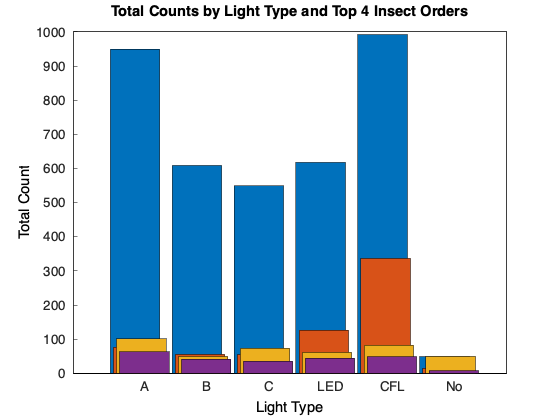
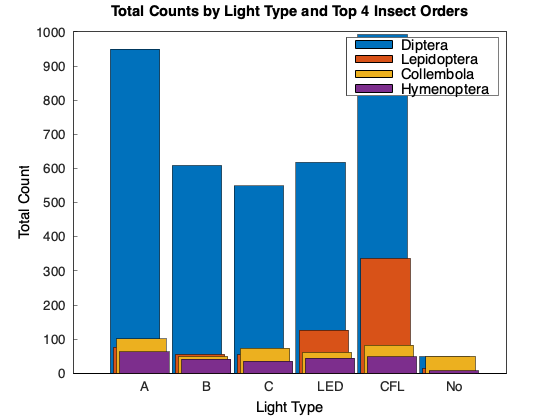
COMPLETE

Changed region(s): [[0.6071, 0.0619, 0.8804, 0.2476]]

diff --git a/exam/bugs-task2-fixed.cpp b/exam/bugs-task2-fixed.cpp
@@ -24,7 +24,7 @@ public:
 void parseCSV(const string& filePath, Site& URBAN, Site& RURAL) {
     ifstream file(filePath);
     if (!file.is_open()) {
-        cerr << "Error opening file!" << endl;
+        cout << "Error opening file!" << endl;
         return;
     }
 
@@ -112,8 +112,8 @@ int main() {
     parseCSV(filePath, urban, rural);
 
     // Calculate regression lines
-    std::pair<double, double> urbanRegression = calculateLinearRegression(urban.Standardized_Moon, urban.total);
-    std::pair<double, double> ruralRegression = calculateLinearRegression(rural.Standardized_Moon, rural.total);
+    pair<double, double> urbanRegression = calculateLinearRegression(urban.Standardized_Moon, urban.total);
+    pair<double, double> ruralRegression = calculateLinearRegression(rural.Standardized_Moon, rural.total);
 
     // Prep regression line values
     vector<double> urbanFit;
@@ -128,32 +128,36 @@ int main() {
 
 
     // plot BG
-
-    auto ax1 = fig->add_subplot(1, 3, 1);
+    auto fig1 = figure(true);
+    //auto ax1 = fig1->add_subplot(1, 3, 1);
     // scatter plot using red xs
-    matplot::plot(urban.Standardized_Moon, urban.total, "rx");
+    plot(urban.Standardized_Moon, urban.total, "rx");
     hold(on);
     // regression line
     //vector<double> trend_x = linspace(2.2, 4.0, 10);
     //vector<double> trend_y = transform(trend_x, [](auto x) {return 240.5*x + 1043;});
     plot(urban.Standardized_Moon, urbanFit, "r-");
+    //matplot::legend({"Data Points", "Regression Line"});
     // labels
     xlabel("Standardized Moon");
     ylabel("Total Bugs");
     title("Urban Site (BG)");
 
     show();
-    save("urban-BG.png");  
+    hold(on);
+    //save("urban-BG.png");  
 
 
     // plot LK and Stunt
 
     // scatter plot using blue xs
-    auto ax1 = fig->add_subplot(1, 3, 2);
-    matplot::plot(rural.Standardized_Moon, rural.total, "bx");
+    //auto fig2 = figure(true);
+    //auto ax2 = fig1->add_subplot(1, 3, 2);
+    plot(rural.Standardized_Moon, rural.total, "bx");
     hold(on);
     // regression line
     plot(rural.Standardized_Moon, ruralFit, "b-");  // Plot regression line
+    matplot::legend({"Data Points Urban", "Regression Line Urban", "Data Points Rural", "Regression Line Rural"});
     // labels
     xlabel("Standardized Moon");
     ylabel("Total Bugs");
@@ -166,5 +170,4 @@ int main() {
 
 // clang++ -Wall -std=c++11 bugs-task2-fixed.cpp -o task2 -g
 
-// clang++ -std=c++17 -I/opt/homebrew/include/ -L /opt/homebrew/lib -l matplot bugs-task2-fixed.cpp -o task2 -g
-
+// clang++ -g bugs-task2-fixed.cpp -o task2fixed -std=c++17 -I/opt/homebrew/include -ldlib -lmatplot -lblas -L/opt/homebrew/lib

diff --git a/exam/bugs-task3-fixed.cpp b/exam/bugs-task3-fixed.cpp
@@ -139,6 +139,9 @@ int main() {
     double spacing = 2.0; // Spacing between groups
 
 
+    // full discretion: for the offset I had to ask one of my CS friends
+    // thus the logic is not fully original, BUT they explained and we worked together 
+
     vector<double> baseX; // Base positions for each light type group
 
     for (size_t i = 0; i < numLightTypes; i++) {
@@ -171,10 +174,13 @@ int main() {
         {{"horizontalalignment", "center"}, {"verticalalignment", "top"}, {"transform", "axes"}}); */
     xlabel("Light Type"); 
     ylabel("Total Count");
-    // legend(topOrders); 
+    matplot::legend(topOrders); 
 
     show();
     save("barplot.png");
 
     return 0;
 }
+
+// clang++ -g bugs-task3-fixed.cpp -o task3fixed -std=c++17 -I/opt/homebrew/include -ldlib -lmatplot -lblas -L/opt/homebrew/lib
+
